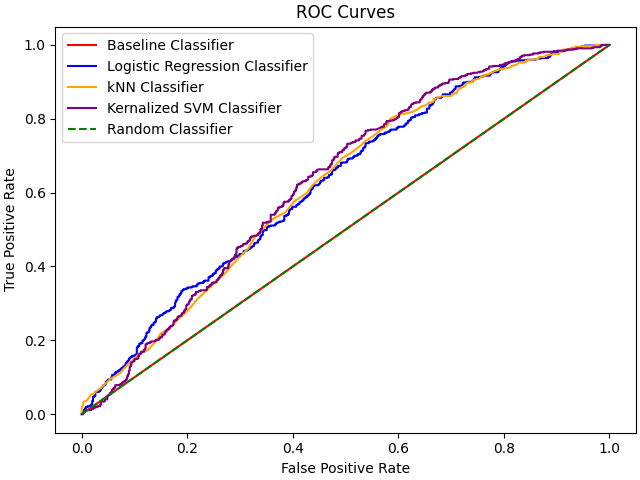
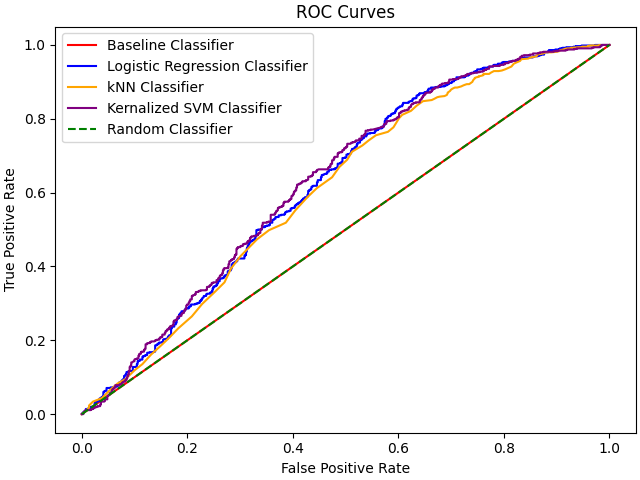
Results for current data
This commit contains all of the results for teh current data set with
cross-validation plots, and models run using hyperparameters taken from
observing these plots as well as the results of the models.

diff --git a/code/chart_predictor.py b/code/chart_predictor.py
@@ -98,11 +98,11 @@ plt.clf()
 
 # Train logistic regression classifier (with L2 penalty) with hyperparameters selected from cross-validation.
 lrl2_model = LogisticRegression(penalty="l2", C=10)
-#poly = PolynomialFeatures(4)
-#lrl2_model.fit(poly.fit_transform(X_train), y_train)
-#lrl2_preds = lrl2_model.predict(poly.fit_transform(X_validate))
-lrl2_model.fit(X_train, y_train)
-lrl2_preds = lrl2_model.predict(X_validate)
+poly = PolynomialFeatures(3)
+lrl2_model.fit(poly.fit_transform(X_train), y_train)
+lrl2_preds = lrl2_model.predict(poly.fit_transform(X_validate))
+# lrl2_model.fit(X_train, y_train)
+# lrl2_preds = lrl2_model.predict(X_validate)
 print("------------------Logistic Regression------------------")
 print(lrl2_model.coef_[0])
 print(confusion_matrix(y_validate, lrl2_preds))
@@ -129,7 +129,7 @@ plt.savefig("./plots/kNN-k-cross-validation.png")
 plt.clf()
 
 # Train kNN classifier with k selected from cross-validation.
-kNN_model = KNeighborsClassifier(n_neighbors=500)
+kNN_model = KNeighborsClassifier(n_neighbors=300)
 kNN_model.fit(X_train, y_train)
 kNN_preds = kNN_model.predict(X_validate)
 print("--------------------------kNN--------------------------")
@@ -170,7 +170,7 @@ plt.rcParams["figure.constrained_layout.use"] = True
 plt.errorbar(gamma_range, mean_error, yerr=std_error, linewidth=3)
 plt.xlabel("C")
 plt.ylabel("F1 Score")
-plt.title("C Cross Validation for Kernalized SVM Model")
+plt.title("Gamma Cross Validation for Kernalized SVM Model")
 plt.savefig("./plots/svm-gamma-cross-validation.png")
 plt.clf()
 
@@ -190,7 +190,8 @@ probs = baseline_model.predict_proba(X_validate)
 fpr, tpr, _ = roc_curve(y_validate, probs[:, 1])
 plt.plot(fpr, tpr, color="red", label="Baseline Classifier")
 
-probs = lrl2_model.predict_proba(X_validate)
+probs = lrl2_model.predict_proba(poly.fit_transform(X_validate))
+# probs = lrl2_model.predict_proba(X_validate)
 fpr, tpr, _ = roc_curve(y_validate, probs[:, 1])
 plt.plot(fpr, tpr, color="blue", label="Logistic Regression Classifier")
 
